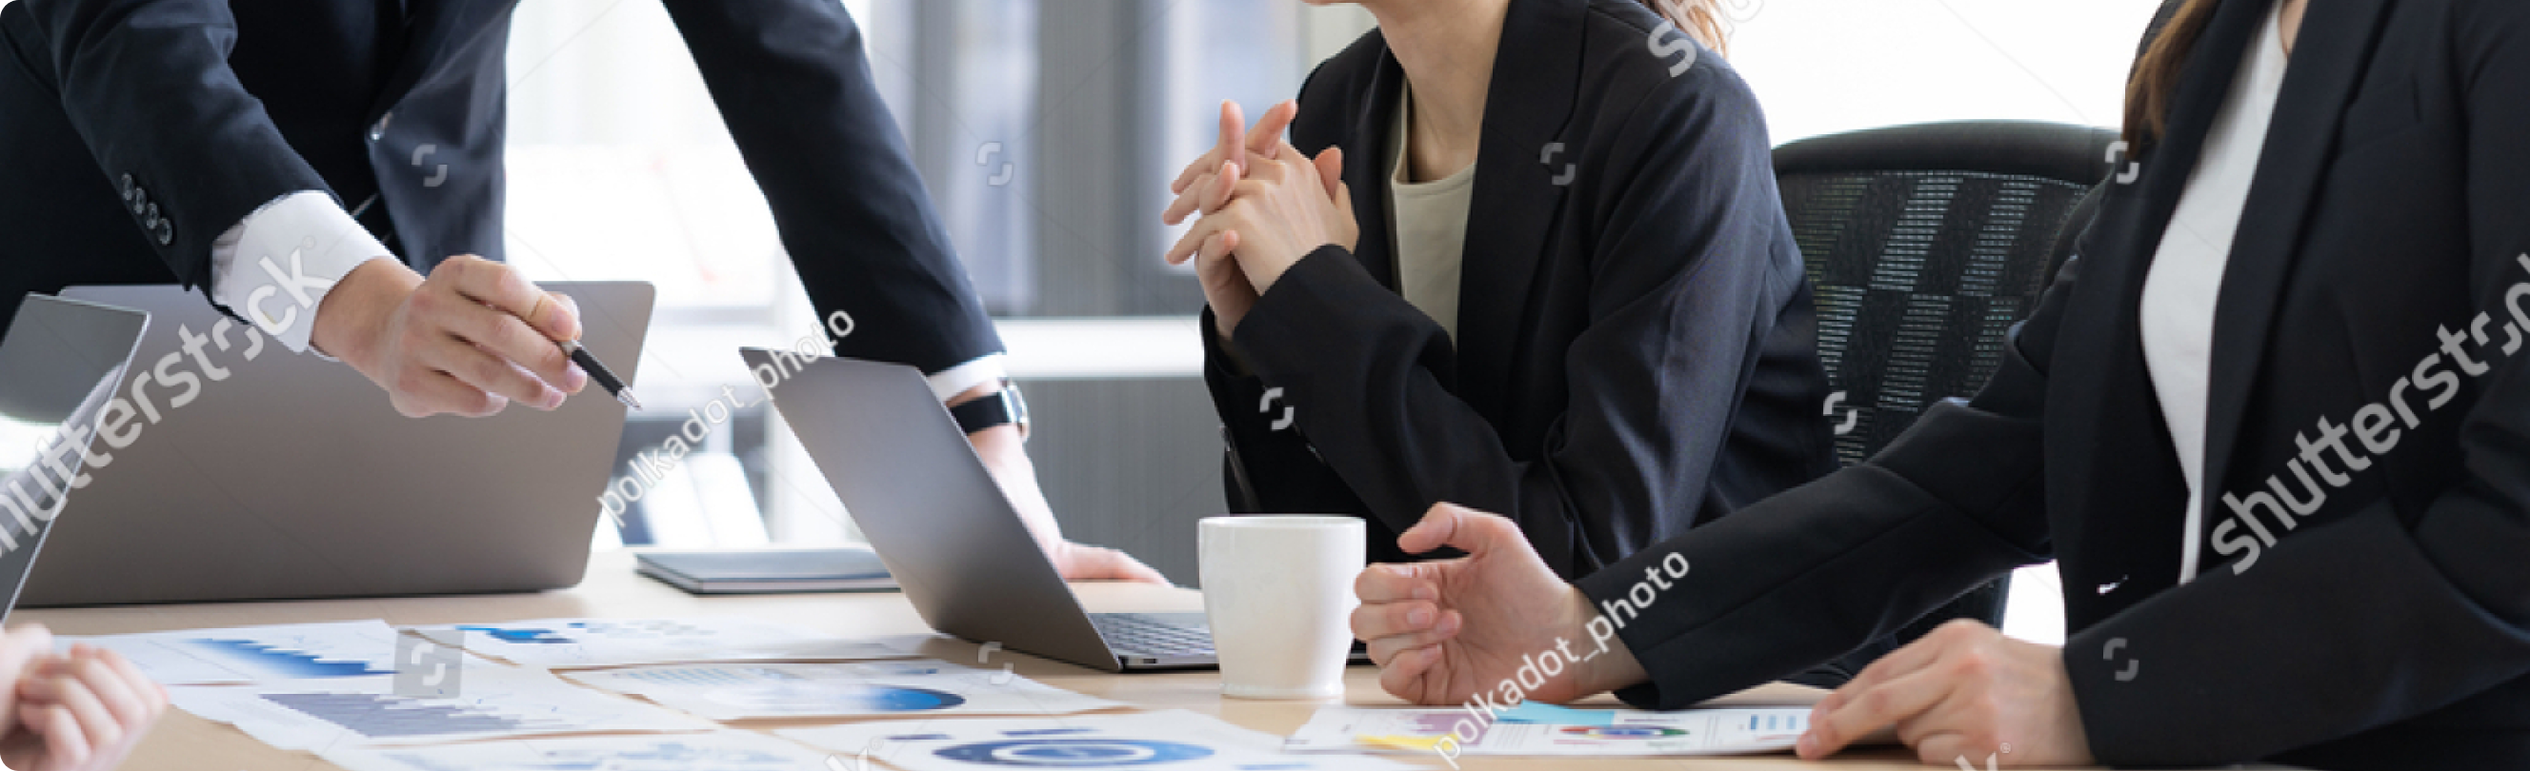
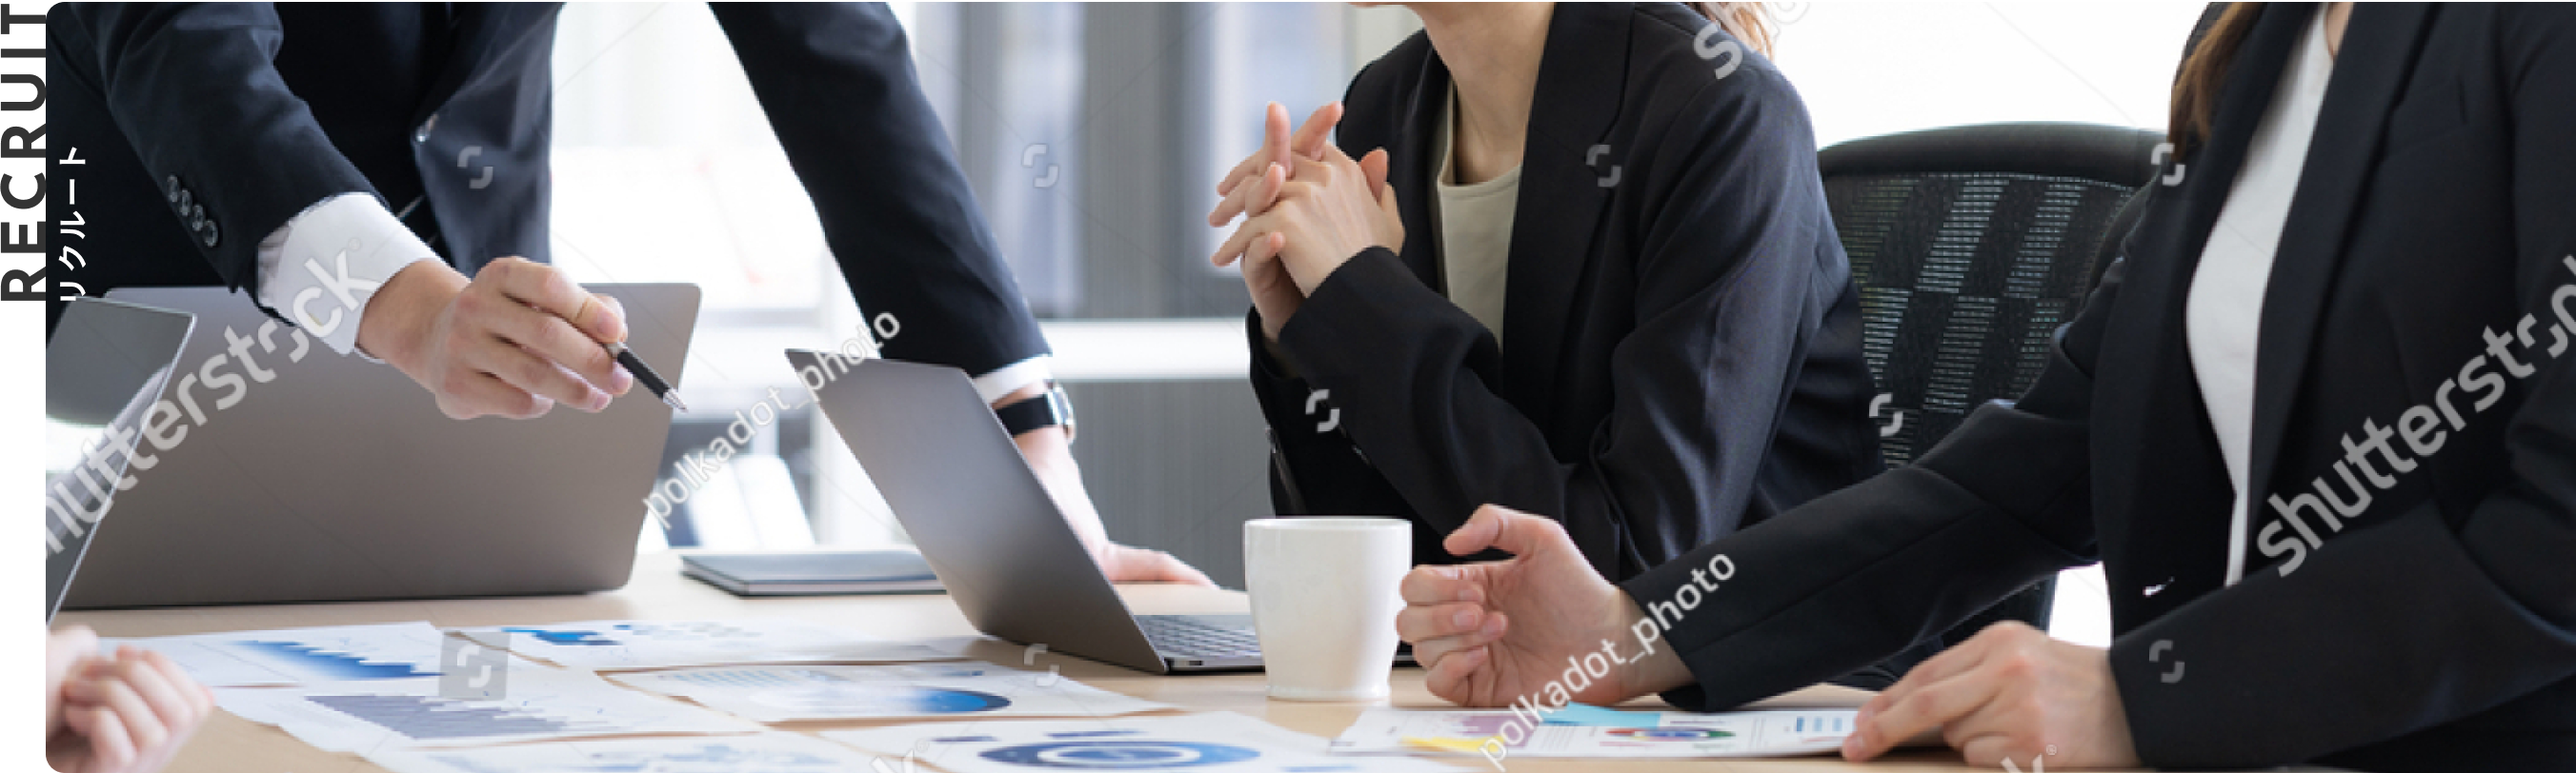
[update] contact-access作成 footer作成

Changed region(s): [[0.0, 0.0, 0.9688, 1.0], [0.9688, 0.4012, 1.0, 0.4321], [0.2188, 0.9877, 0.25, 1.0]]

diff --git a/assets/css/style.css b/assets/css/style.css
@@ -12,7 +12,7 @@ body {
   font-weight: 400;
   background-image: url("../img/back-image.png"), url("../img/back-image2.png");
   background-repeat: no-repeat;
-  background-position: top -350px left 40px, top 330px left 725px;
+  background-position: top -10% left 5%, top 10% left 101%;
   background-size: 734px 645px;
 }
 
@@ -57,15 +57,26 @@ img {
   padding: 0 0 4px 8px;
 }
 
+.arrow-button {
+  width: 50px;
+  height: 50px;
+  padding-left: 9px;
+  color: #fda5e1;
+  border-color: #fda5e1;
+  border-width: 2px;
+  border-radius: 999px;
+  line-height: 3;
+}
+
 /*hero*/
-.header {
+.Header {
   /* position: sticky;
   top: 0;
   z-index: 2; */
   line-height: normal;
 }
 
-.header .container {
+.Header .container {
   display: flex;
   align-items: center;
   justify-content: space-between;
@@ -74,18 +85,18 @@ img {
   margin: 0 auto;
 }
 
-.header .navigation .menu {
+.Header .navigation .menu {
   display: flex;
   align-items: center;
   justify-content: space-between;
   font-weight: 700;
 }
 
-.header .navigation .menu .item + .item {
+.Header .navigation .menu .item + .item {
   margin-left: 48px;
 }
 
-.header .button {
+.Header .button {
   width: 154px;
   height: 36px;
 }
@@ -236,17 +247,6 @@ img {
   margin-top: 16px;
 }
 
-.Service .service-text .arrow-button {
-  width: 50px;
-  height: 50px;
-  text-align: center;
-  color: #fda5e1;
-  border-color: #fda5e1;
-  border-width: 2px;
-  border-radius: 999px;
-  line-height: 3;
-}
-
 .Service .service-text .arrow-button:hover {
   background-color: #fff;
 }
@@ -289,21 +289,27 @@ img {
 }
 .Recruit {
   padding: 64px 0;
+  background-image: url("../img/recruit-img1.png"),
+    url("../img/recruit-img2.png"), url("../img/recruit-img3.png"),
+    url("../img/recruit-img4.png");
+  background-repeat: no-repeat;
+  background-position: top 87% left 77%, top 9% left 62%, top 3% left 84%,
+    top 0% left -40%;
+  background-size: 258px 258px, 155px 155px, 96px 96px, 915px 915px;
 }
-.Recruit .recruit-title {
-}
-
 .Recruit .container {
-  margin-left: 112px;
+  padding-top: 84px;
 }
 
 .Recruit .container .recruit-img {
   width: 100%;
+  text-align: right;
+  position: relative;
 }
 
 .Recruit .title-contents {
   width: min(100%, 657px);
-  margin-top: 48px;
+  margin: 48px 0 0 185px;
 }
 
 .Recruit .title-contents .text {
@@ -316,4 +322,69 @@ img {
   width: 248px;
   height: 56px;
   margin-top: 40px;
+}
+
+.Contact-Access {
+  padding: 64px 0;
+}
+.Contact-Access .container {
+  display: flex;
+  align-items: center;
+  justify-content: center;
+}
+.Contact-Access .contact-img,
+.Contact-Access .access-img {
+  position: relative;
+}
+
+.Contact-Access .contact-img {
+  padding-right: 112px;
+  border-right: solid 2px #eee;
+  margin-right: 112px;
+}
+
+.Contact-Access .contents {
+  position: absolute;
+  left: 5%;
+  bottom: 5%;
+  display: flex;
+  justify-content: space-between;
+  align-items: center;
+  width: min(95%, 424px);
+}
+
+.Contact-Access .contents .arrow-button:hover {
+  background-color: #fff;
+}
+
+.Contact-Access .contents .title-contents {
+  color: #fff;
+}
+
+.Footer {
+  border-top: solid 2px #eee;
+  padding: 64px 120px;
+  width: min(95%, 1216px);
+  margin: auto;
+}
+
+.Footer .container {
+  text-align: center;
+}
+
+.Footer .navigation {
+  font-weight: 600;
+  width: min(95%, 624px);
+  margin: 64px auto;
+}
+
+.Footer .navigation .menu {
+  display: flex;
+  align-items: center;
+  justify-content: space-between;
+}
+
+.Footer .navigation .menu .item + .item {
+  border-left: solid 1px #eee;
+  padding-left: 24px;
 }

diff --git a/index.html b/index.html
@@ -14,7 +14,7 @@
     <script src="https://kit.fontawesome.com/77487b6628.js" crossorigin="anonymous"></script>
   </head>
 <body>
-  <header class="header">
+  <header class="Header">
     <div class="container">
     <h1 class="logo">
       <a href="index.html">
@@ -325,14 +325,6 @@
  <!--リクルートー-->
     <section class="Recruit">
       <div class="container">
-      <div class="recruit-title">
-        <img
-            loading="lazy"
-            src="assets/img/recruit.logo.png"
-            width="48"
-            height="161"
-            alt="">
-      </div>
       <div class="recruit-img">
         <img
             loading="lazy"
@@ -349,12 +341,78 @@
       <button class="button">採用情報を見る<i class="fa-solid fa-arrow-right"></i></button>
       </div>
       </div>
-
     </section>
-
  <!--コンタクト、アクセス-->
-    <section class="Contact"></section>
-    <section class="Access"></section>
-
-  <footer></footer>
+    <section class="Contact-Access">
+      <div class="container">
+        <div class="contact-img">
+        <img
+            loading="lazy"
+            src="assets/img/contact.png"
+            width="472"
+            height="354"
+            alt="">
+      <div class="contents">
+      <div class="title-contents">
+        <h2 class="sub-title">お問い合わせ</h2>
+        <h1 class="title">CONTACT</h1>
+      </div>
+      <div class="arrow-button">
+            <a class="arrow" href="service.html"><i class="fa-solid fa-arrow-right"></i></a>
+          </div>
+          </div>
+          </div>
+          <div class="access-img">
+        <img
+            loading="lazy"
+            src="assets/img/access.png"
+            width="472"
+            height="354"
+            alt="">
+      <div class="contents">
+      <div class="title-contents">
+        <h2 class="sub-title">アクセス</h2>
+        <h1 class="title">ACCESS</h1>
+      </div>
+      <div class="arrow-button">
+            <a class="arrow" href="service.html"><i class="fa-solid fa-arrow-right"></i></a>
+          </div>
+          </div>
+          </div>
+      </div>
+    </section>
+  <footer class="Footer">
+    <div class="container">
+    <div class="footer-logo">
+        <img
+            loading="lazy"
+            src="assets/img/logo1.png"
+            width="175"
+            height="34"
+            alt="">
+            </div>
+          <nav class="navigation">
+          <ul class="menu">
+            <li class="item">
+              <a href="index.html#about">企業情報</a>
+            </li>
+            <li class="item">
+              <a href="index.html#news">ニュース</a>
+            </li>
+            <li class="item">
+              <a href="index.html#service">事業内容</a>
+            </li>
+            <li class="item">
+              <a href="index.html#projects">実績</a>
+            </li>
+            <li class="item">
+              <a href="index.html#recruit">採用情報</a>
+            </li>
+            <li class="item">
+              <a href="index.html#access">アクセス</a>
+            </li>
+          </ul>
+        </nav>
+        </div>
+  </footer>
 </body>
